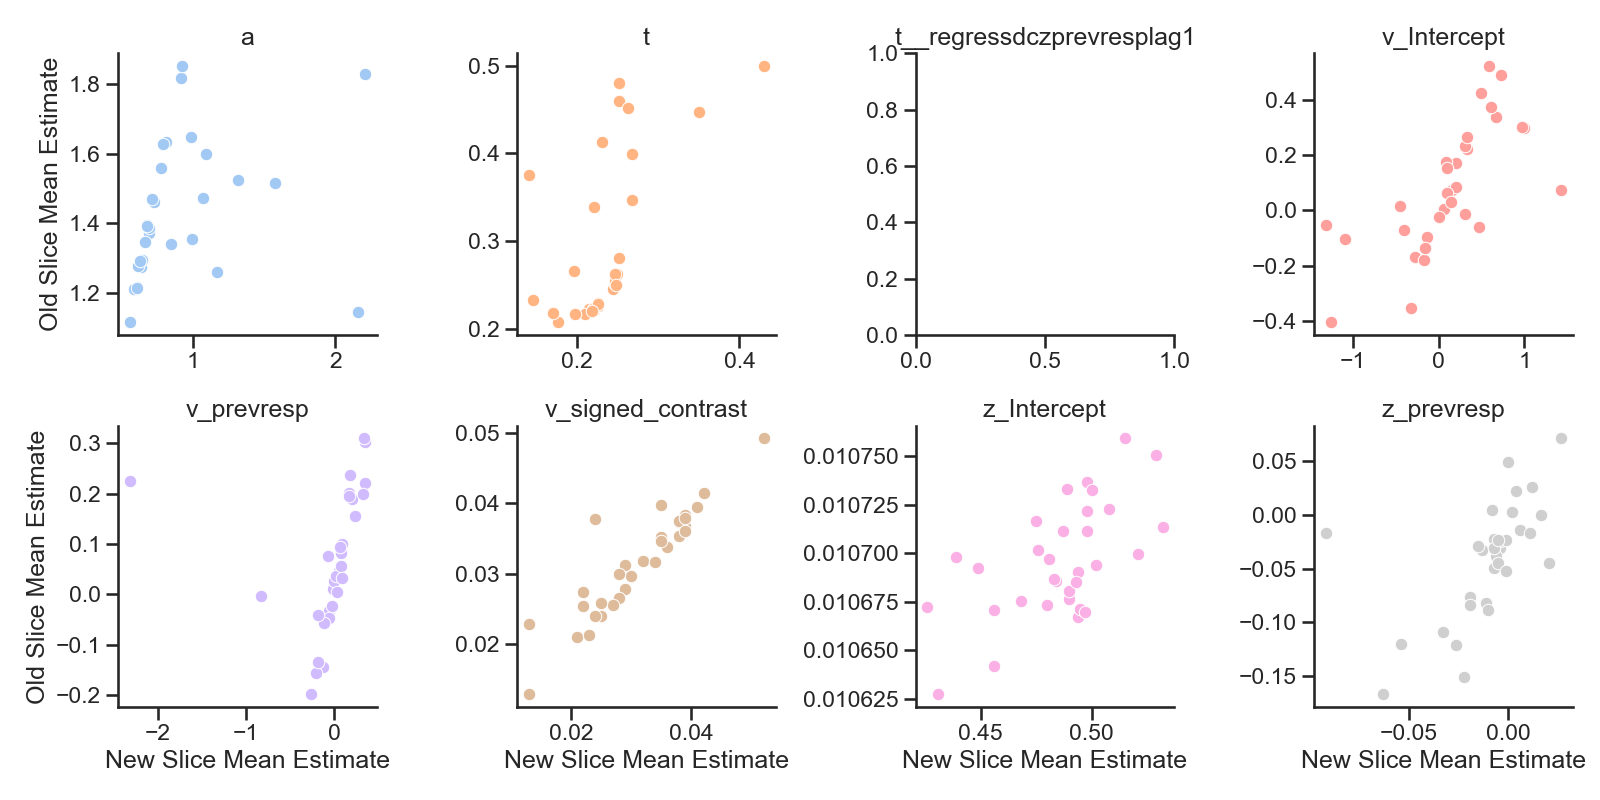
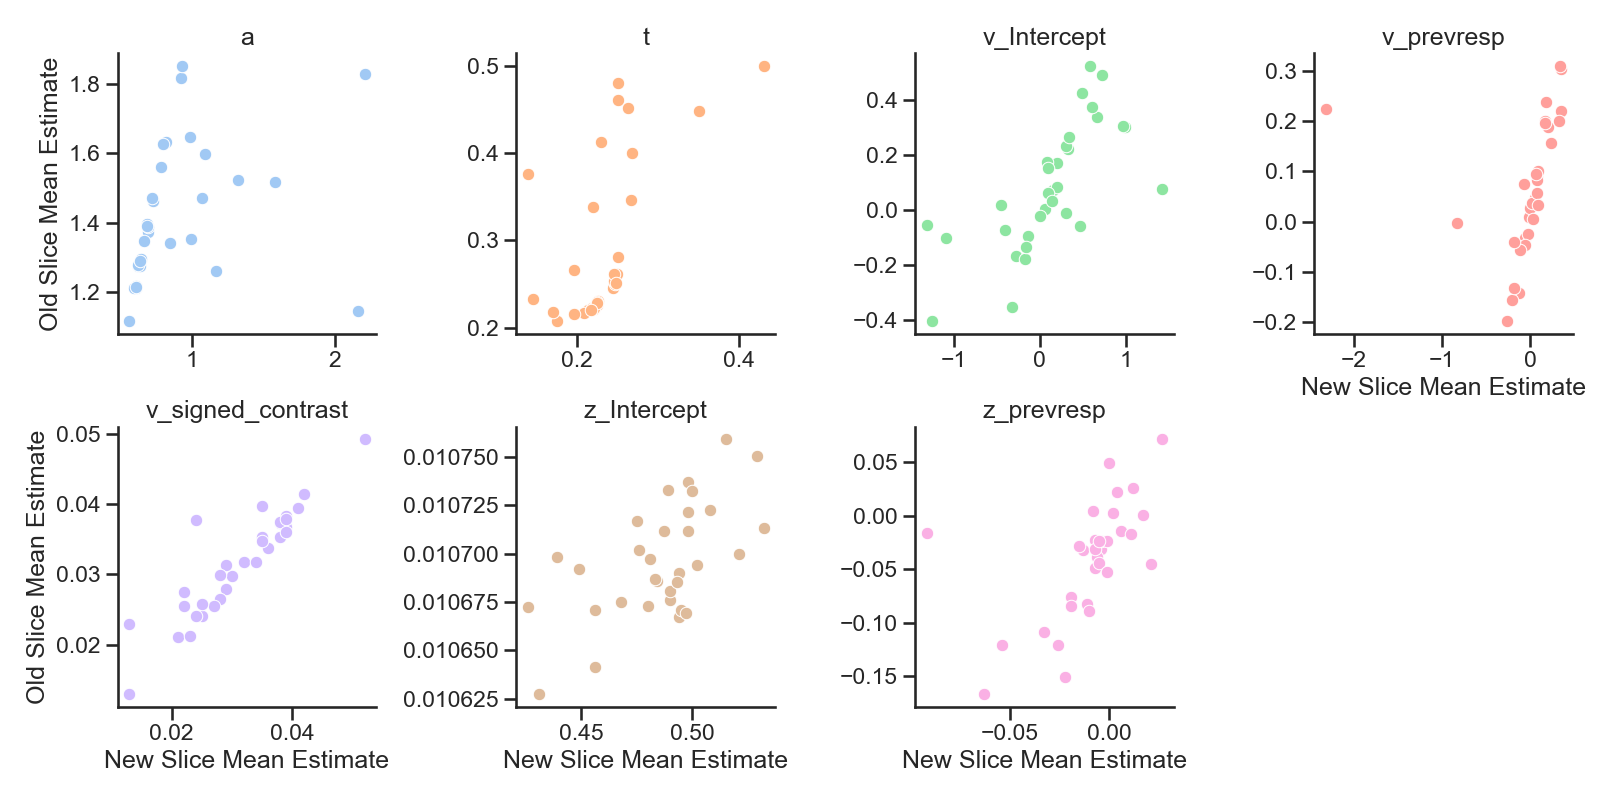
change paths so plots generate correctly

diff --git a/src/estimate_compare_sampling_2afc_urai_2019.py b/src/estimate_compare_sampling_2afc_urai_2019.py
@@ -16,13 +16,14 @@ import glob
 import seaborn as sns
 import matplotlib.pyplot as plt
 from hssm import set_floatX
+#import hssm 
 
 #%matplotlib inline
 set_floatX("float32")
 #%% load data
 script_dir = os.path.dirname(os.path.realpath(__file__))
 data_file_path = os.path.join(script_dir, '..', '..', '2023_choicehistory_HSSM', 'data')
-results_dir = os.path.join(script_dir, 'results', 'figures')
+results_dir = os.path.join(script_dir, '..', 'results', 'figures')
 
 elife_data = pd.read_csv(os.path.join(data_file_path, 'visual_motion_2afc_fd.csv'))
 
@@ -149,6 +150,14 @@ filtered_data = all_data[all_data['parameter'].isin(required_parameters)]
 #save 
 filtered_data.to_csv('individual_fits_combined_data.csv', index=False)
 # %% plot the results of subject-level estimate contrasts
+# Generate the path to the results folder
+results_dir = os.path.join(script_dir, '..', 'results', 'figures')
+
+contrast_results_dir = os.path.join(script_dir, '..', 'results', 'contrasting_estimation_exercise_20240514')
+contrast_results_dir = os.path.normpath(contrast_results_dir)
+csv_file_path = os.path.join(contrast_results_dir, 'individual_fits_combined_data.csv')
+filtered_data = pd.read_csv(csv_file_path)
+
 average_r_hat = filtered_data.groupby(['sampler', 'parameter'])['r_hat'].mean().reset_index()
 average_estimate = filtered_data.groupby(['sampler', 'parameter'])['mean'].mean().reset_index()
 
@@ -185,48 +194,27 @@ plt.savefig(os.path.join(results_dir, 'Mean_Estimates_by_Parameter_and_Sampler.p
 plt.show()
 
 # %% Identity plots 
-
-pivot_data = filtered_data.pivot_table(index=['participant_id', 'parameter'], columns='sampler', values='mean').reset_index()
-
-# Drop rows with any missing data to ensure a clean comparison
-pivot_data.dropna(inplace=True)
-
-# Set up the facet grid for plotting with scales specific to each plot for better visibility
-g = sns.FacetGrid(pivot_data, col='parameter', col_wrap=4, height=4, sharex=False, sharey=False)
-g.map_dataframe(sns.scatterplot, x='slice', y='nuts_analytical')
-
-# Draw identity lines and set axes limits specific to each plot for clarity
-for ax, (_, subdata) in zip(g.axes.flat, pivot_data.groupby('parameter')):
-    min_val = min(subdata['slice'].min(), subdata['nuts_analytical'].min())
-    max_val = max(subdata['slice'].max(), subdata['nuts_analytical'].max())
-    ax.plot([min_val, max_val], [min_val, max_val], 'gray', ls="--")
-    ax.set_xlim(min_val, max_val)
-    ax.set_ylim(min_val, max_val)
-
-# Set titles and labels
-g.set_axis_labels('Slice Mean Estimate', 'Nuts Mean Estimate')
-g.set_titles(col_template="{col_name}")
-g.add_legend()
-plt.show()
-
-# %% compare with prior estimates
 # Load the dataset
-data_path = pd.read_csv(os.path.join(data_file_path, 'visual_motion_2afc_fd_hddmfits.csv'))
-data = pd.read_csv(data_path)
+data = pd.read_csv(os.path.join(data_file_path, 'visual_motion_2afc_fd_hddmfits.csv'))
 # Select columns that include the subject number and columns with 'regressdczprevresplag1' in their names
-selected_data = data.filter(regex='subjnr|regressdczprevresplag1|t__stimcodingnohist')
-#t__regressdclag1
-# Rename the columns as specified previously
-selected_data = selected_data.rename(columns={
+selected_data = data.filter(regex='subjnr|regressdczprevresplag1|t__stimcodingdczprevresp')
+
+rename_dict = {
     'subjnr': 'participant_id',
     'a__regressdczprevresplag1': 'a',
-    't__stimcodingnohist': 't',
+    't__stimcodingdczprevresp': 't',
     'v_Intercept__regressdczprevresplag1': 'v_Intercept',
     'v_stimulus__regressdczprevresplag1': 'v_signed_contrast',
     'v_prevresp__regressdczprevresplag1': 'v_prevresp',
     'z_Intercept__regressdczprevresplag1': 'z_Intercept',
     'z_prevresp__regressdczprevresplag1': 'z_prevresp'
-})
+}
+selected_data = data.rename(columns=rename_dict)
+
+columns_to_keep = list(rename_dict.values())  # List of new names based on the renaming dictionary
+selected_data = selected_data[columns_to_keep]
+
+# selected_data = data.filter(regex='subjnr|stimcodingdczprevresp') # noted from Anne as the parameters that I used in the main paper. File has mutiple copies of each need to follow up.
 # 't__regressdczprevresplag1': 't',
 #t__regressdclag1
 selected_data['sampler'] = 'old_slice'
@@ -291,7 +279,7 @@ plt.savefig(os.path.join(results_dir, 'Nuts_Analytical_vs_Old_Slice.png'))
 plt.show()
 
 # %% investiate really low estimates
-data = pd.read_csv(data_path)
+data = pd.read_csv(os.path.join(data_file_path, 'visual_motion_2afc_fd_hddmfits.csv'))
 # Select columns that include the subject number and columns with 'regressdczprevresplag1' in their names
 # selected_data_ndt = data.filter(regex='subjnr|t_')
 # selected_data_t = data.filter(regex='prevresp')
